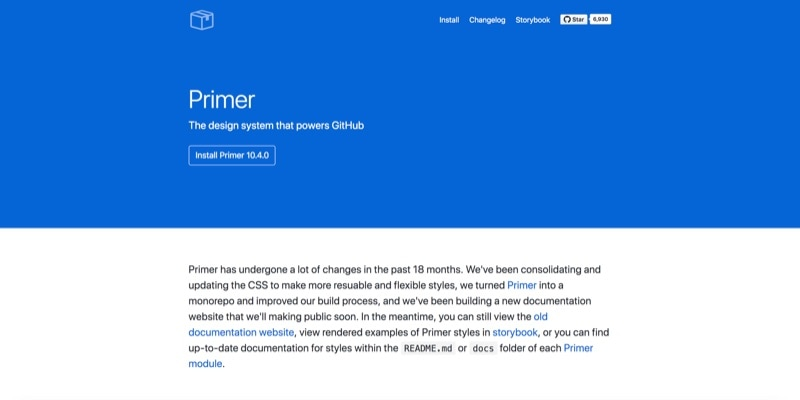
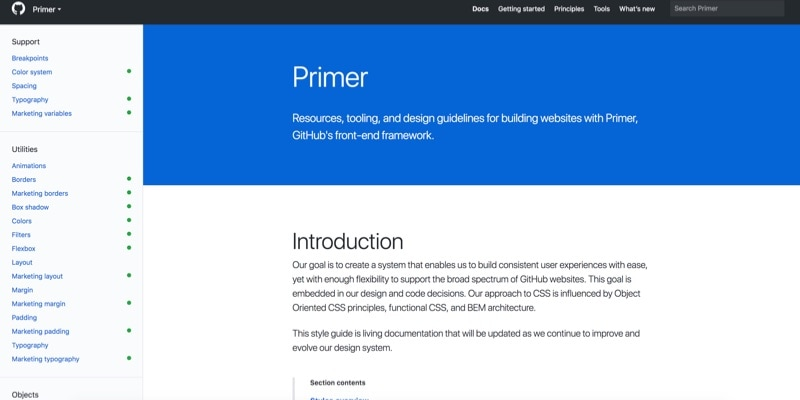
Add GitHub Primer

diff --git a/_design-systems/primer.md b/_design-systems/primer.md
@@ -1,9 +1,9 @@
 ---
-date: April 16, 2018
+date: June 12, 2018
 title: Primer
 company: GitHub
-link: https://primer.github.io
+link: https://styleguide.github.com/primer/
 image: images/systems/primer.jpg
-description: Primer is the design system that powers GitHub. A new documentation website is coming soon.
+description: Resources, tooling, and design guidelines for building websites with Primer, GitHub's front-end framework.
 
 ---
